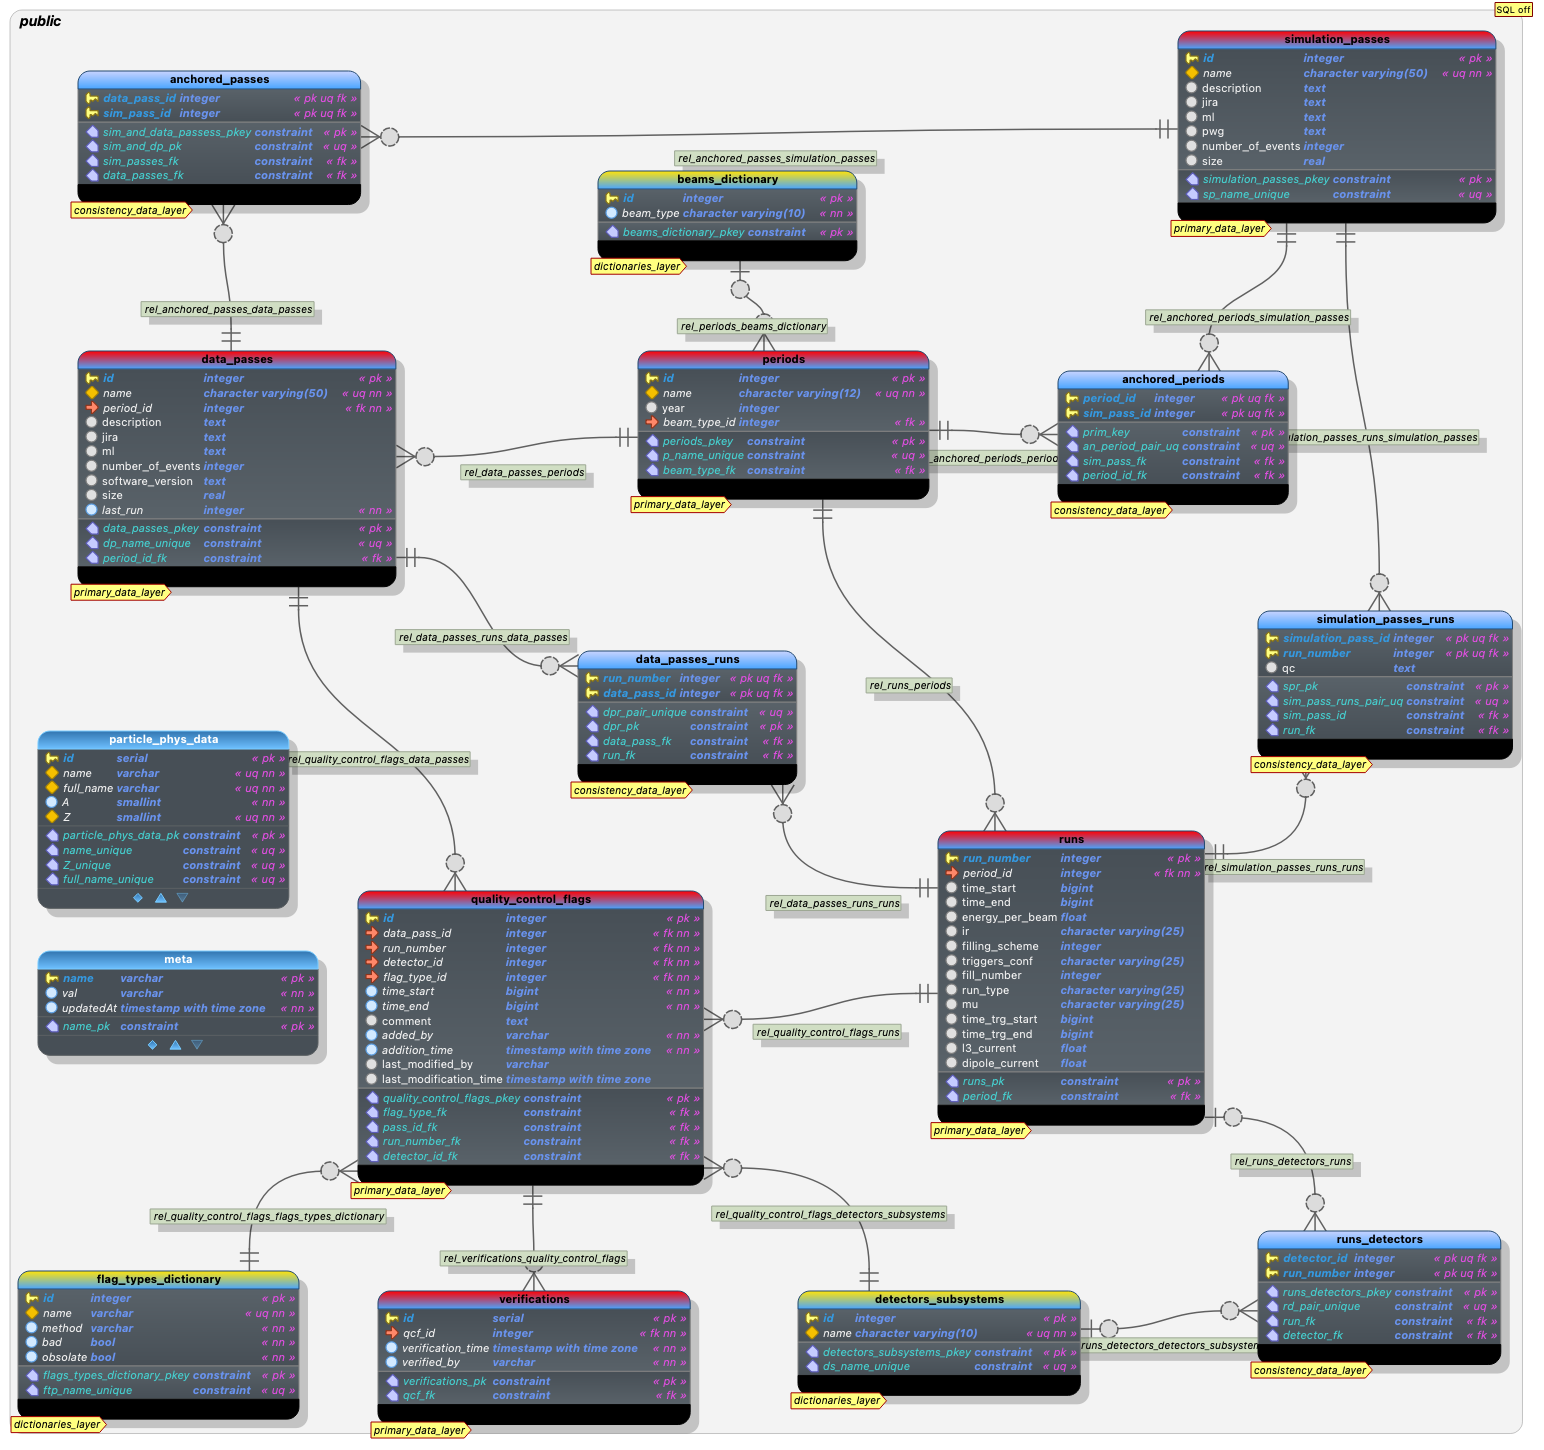
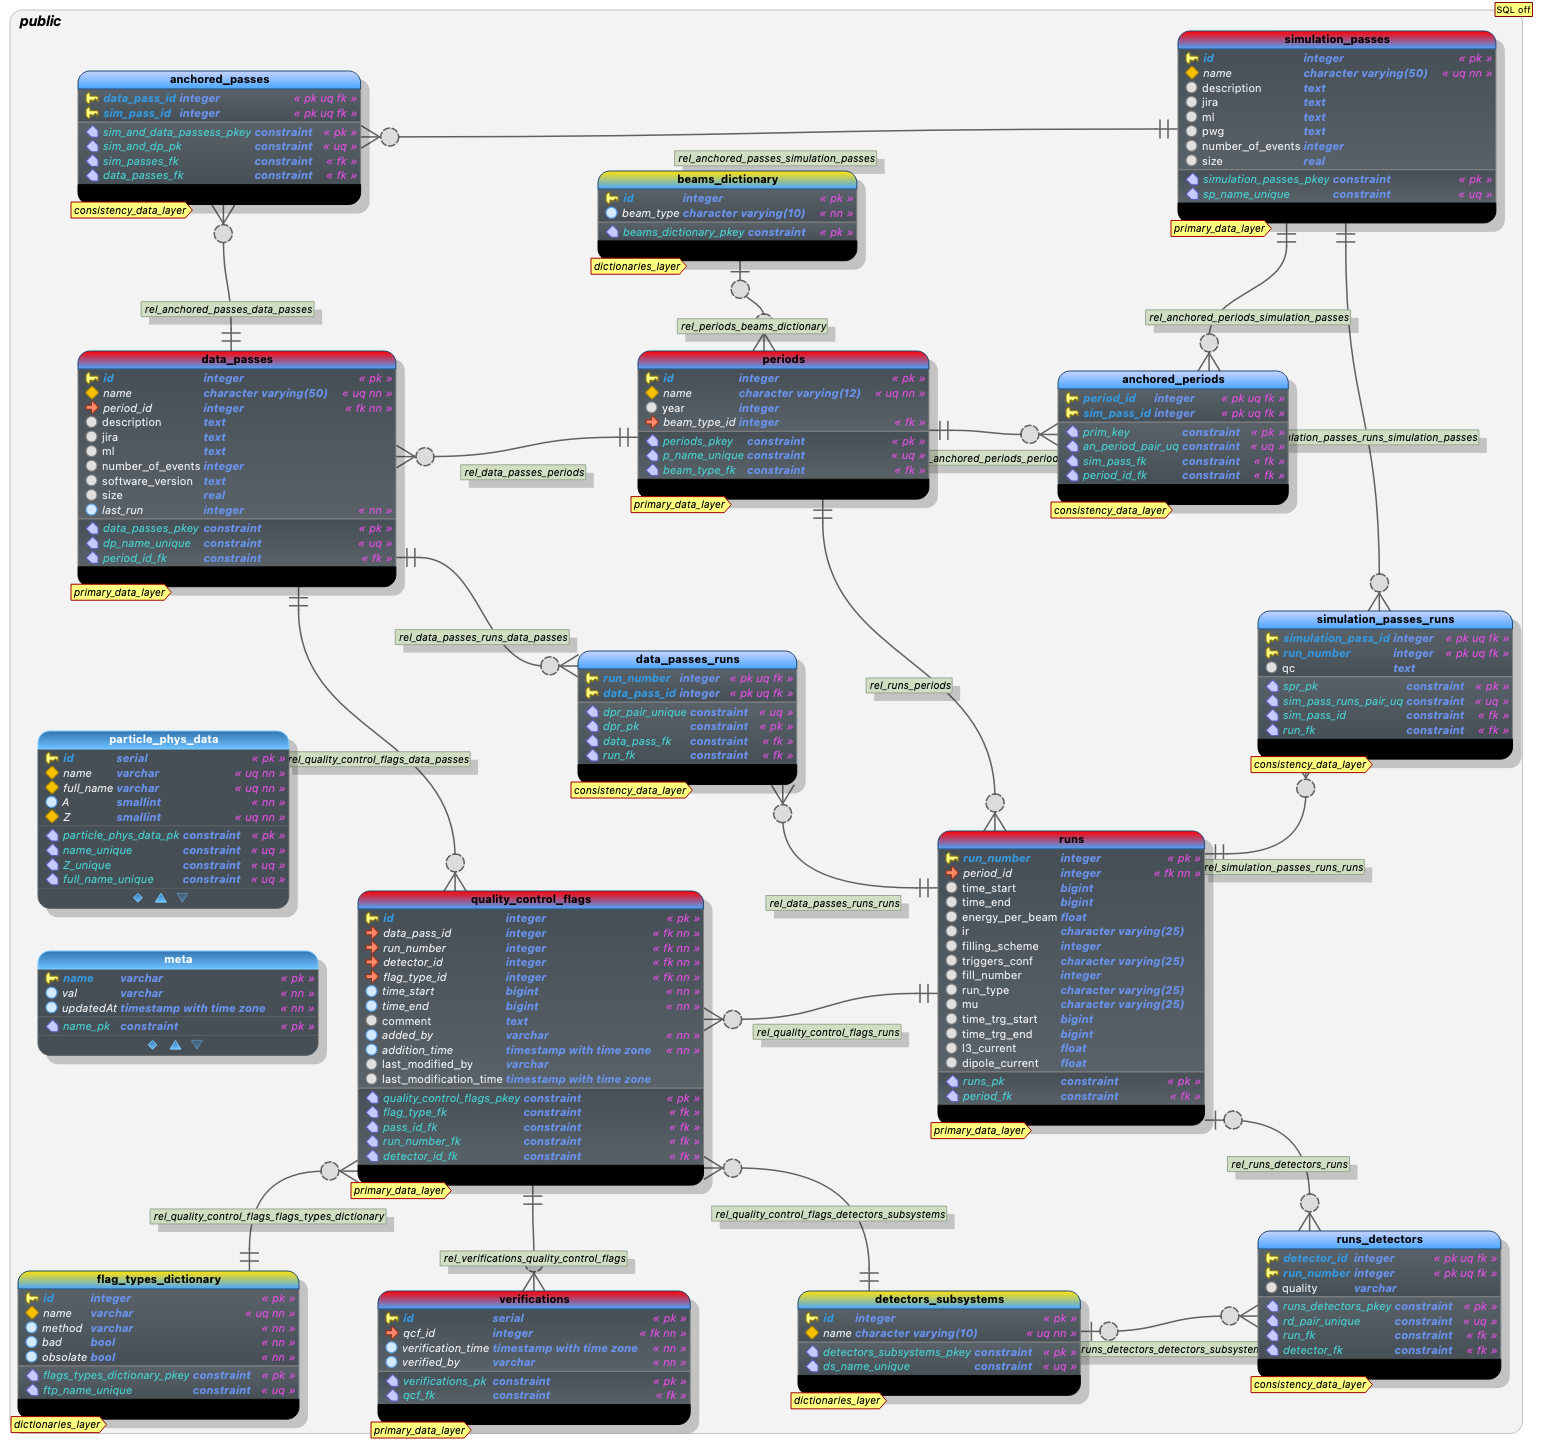
[ORCT-139] Process run qualities per run detector from BK on backend (#158)

Changed region(s): [[0.6839, 0.869, 0.9948, 0.9621], [0.7772, 0.7448, 0.8705, 0.8379]]

diff --git a/app/lib/alimonitor-services/BookkeepingService.js b/app/lib/alimonitor-services/BookkeepingService.js
@@ -36,7 +36,7 @@ class BookkeepingService extends AbstractServiceSynchronizer {
             timeTrgEnd: 'time_trg_end',
             definition: 'run_type',
             lhcBeamEnergy: 'energy',
-            detectors: 'detectors',
+            detectorsQualities: 'detectors',
             aliceL3Current: 'l3_current_val',
             aliceL3Polarity: 'l3_current_polarity',
             aliceDipoleCurrent: 'dipole_current_val',
@@ -75,17 +75,11 @@ class BookkeepingService extends AbstractServiceSynchronizer {
     dataAdjuster(run) {
         try {
             run = Utils.filterObject(run, this.ketpFields);
-            if (run.detectors) {
-                if (typeof run.detectors === 'string') {
-                    if (run.detectors.includes(',')) { // TODO may other delimiters
-                        run.detectors = run.detectors.split(/,/).map((d) => d.trim().toUpperCase());
-                    } else {
-                        run.detectors = run.detectors.split(/ +/).map((d) => d.trim().toUpperCase());
-                    }
-                }
-            } else {
-                run.detectors = [];
-            }
+            const { detectors } = run;
+            delete run.detectors;
+            run.detectorNames = detectors.map(({ name }) => name.trim());
+            run.detectorQualities = detectors.map(({ quality }) => quality);
+
             this.coilsCurrentsFieldsParsing(run, 'l3_current_val', 'l3_current_polarity', 'l3_current');
             this.coilsCurrentsFieldsParsing(run, 'dipole_current_val', 'dipole_current_polarity', 'dipole_current');
             ServicesDataCommons.mapBeamTypeToCommonFormat(run);
@@ -115,10 +109,10 @@ class BookkeepingService extends AbstractServiceSynchronizer {
         const { period } = d;
         const year = ServicesDataCommons.extractPeriodYear(period);
         d = Utils.adjusetObjValuesToSql(d);
-
         const period_insert = d.period ? `call insert_period(${d.period}, ${year}, ${d.beam_type});` : '';
 
-        const detectorsInSql = `${d.detectors}::varchar[]`;
+        const detectorInSql = `${d.detectorNames}::varchar[]`;
+        const detectorQualitiesInSql = `${d.detectorQualities}::varchar[]`;
         const pgCommand = `${period_insert}; call insert_run (
             ${d.run_number},
             ${d.period}, 
@@ -129,7 +123,8 @@ class BookkeepingService extends AbstractServiceSynchronizer {
             ${d.run_type},
             ${d.fill_number},
             ${d.energy}, 
-            ${detectorsInSql},
+            ${detectorInSql},
+            ${detectorQualitiesInSql},
             ${d.l3_current},
             ${d.dipole_current}
         );`;

diff --git a/app/lib/utils/sql-utils.js b/app/lib/utils/sql-utils.js
@@ -30,7 +30,7 @@ function adjusetObjValuesToSql(obj) {
                 res[k] = adjustValuesToSql(v);
             }
         } else {
-            res[k] = null;
+            res[k] = 'null';
         }
     }
     return res;
@@ -38,7 +38,7 @@ function adjusetObjValuesToSql(obj) {
 
 function adjustValuesToSql(v) {
     if (!v) {
-        return null;
+        return 'null';
     }
 
     if (Array.isArray(v)) {
@@ -47,7 +47,7 @@ function adjustValuesToSql(v) {
 
     if (typeof v == 'string') {
         if (v.length == 0) {
-            return null;
+            return 'null';
         } else if (! sqlValueKeywords.includes(v?.trim().toUpperCase()) && isNaN(v)) {
             return `'${v}'`;
         }

diff --git a/app/lib/database/models/index.js b/app/lib/database/models/index.js
@@ -19,6 +19,7 @@ const Run = require('./Run.js');
 const DataPass = require('./DataPass.js');
 const DetectorSubsystem = require('./DetectorSubsystem.js');
 const SimulationPass = require('./SimulationPass.js');
+const RunDetectors = require('./RunDetectors.js');
 
 /**
  * 
@@ -33,6 +34,7 @@ const modelsFactory = (sequelize) => {
         DataPass,
         DetectorSubsystem,
         SimulationPass,
+        RunDetectors,
     };
     models = Object.entries(models).map(([modelName, model]) => [modelName, model(sequelize)]); // instantiate models
     models.forEach(([_, modelInstance]) => modelInstance.associate?.(sequelize.models)); // associate models

diff --git a/app/lib/database/models/RunDetectors.js b/app/lib/database/models/RunDetectors.js
@@ -11,10 +11,14 @@
  * or submit itself to any jurisdiction.
  */
 
-/**
- * @typedef DetectorSubsystem
- *
- * @property {number} id
- * @property {string} name
- * @property {string} quality
- */
+const Sequelize = require('sequelize');
+
+module.exports = (sequelize) => {
+    const RunDetectors = sequelize.define('RunDetectors', {
+        quality: {
+            type: Sequelize.STRING,
+        },
+    }, { timestamps: false, tableName: 'runs_detectors' });
+    
+    return RunDetectors;
+};

diff --git a/app/lib/alimonitor-services/PassCorrectnessMonitor.js b/app/lib/alimonitor-services/PassCorrectnessMonitor.js
@@ -46,7 +46,7 @@ class PassCorrectnessMonitor {
 
         if (incorrect > 0) {
             const logFunc = switchCase(errorsLoggingDepth, config.errorsLoggingDepths);
-            errors.forEach((e) => logFunc(logger, e));
+            errors.forEach((e) => logFunc(logger, e.stack));
             logger.warn(`sync unseccessful for ${incorrect}/${dataSize}`);
         }
         if (omitted > 0) {

diff --git a/app/lib/database/models/Run.js b/app/lib/database/models/Run.js
@@ -97,7 +97,7 @@ module.exports = (sequelize) => {
     Run.associate = (models) => {
         Run.belongsTo(models.Period);
         Run.belongsToMany(models.DetectorSubsystem, {
-            through: 'runs_detectors', 
+            through: models.RunDetectors, 
             foreignKey: 'run_number',
             timestamps: false,
         });

diff --git a/test/lib/utils/utils.test.js b/test/lib/utils/utils.test.js
@@ -47,7 +47,7 @@ module.exports = () => {
             });
 
             it('should parse undefined values as null', () => {
-                assert(Utils.adjustValuesToSql(undefined) === null);
+                assert(Utils.adjustValuesToSql(undefined) === 'null');
             });
 
             it('should return unquoted DEFAULT', () => {

diff --git a/app/lib/database/models/DetectorSubsystem.js b/app/lib/database/models/DetectorSubsystem.js
@@ -23,7 +23,7 @@ module.exports = (sequelize) => {
 
     DetectorSubsystem.associate = (models) => {
         DetectorSubsystem.belongsToMany(models.Run, {
-            through: 'runs_detectors', 
+            through: models.RunDetectors, 
             foreignKey: 'detector_id',
             timestamps: false,
         })

diff --git a/app/lib/database/adapters/DetectorSubsystemAdapter.js b/app/lib/database/adapters/DetectorSubsystemAdapter.js
@@ -23,11 +23,13 @@ class DetectorSubsystemAdapter {
         const {
             id,
             name,
+            RunDetectors: { quality },
         } = databaseObject;
 
         return {
             id,
             name,
+            quality,
         };
     }
 

diff --git a/app/lib/database/models/typdefs/SequelizeDetectorSubsystem.js b/app/lib/database/models/typdefs/SequelizeDetectorSubsystem.js
@@ -16,4 +16,5 @@
  *
  * @property {number} id
  * @property {string} name
+ * @property {string} quality
  */
